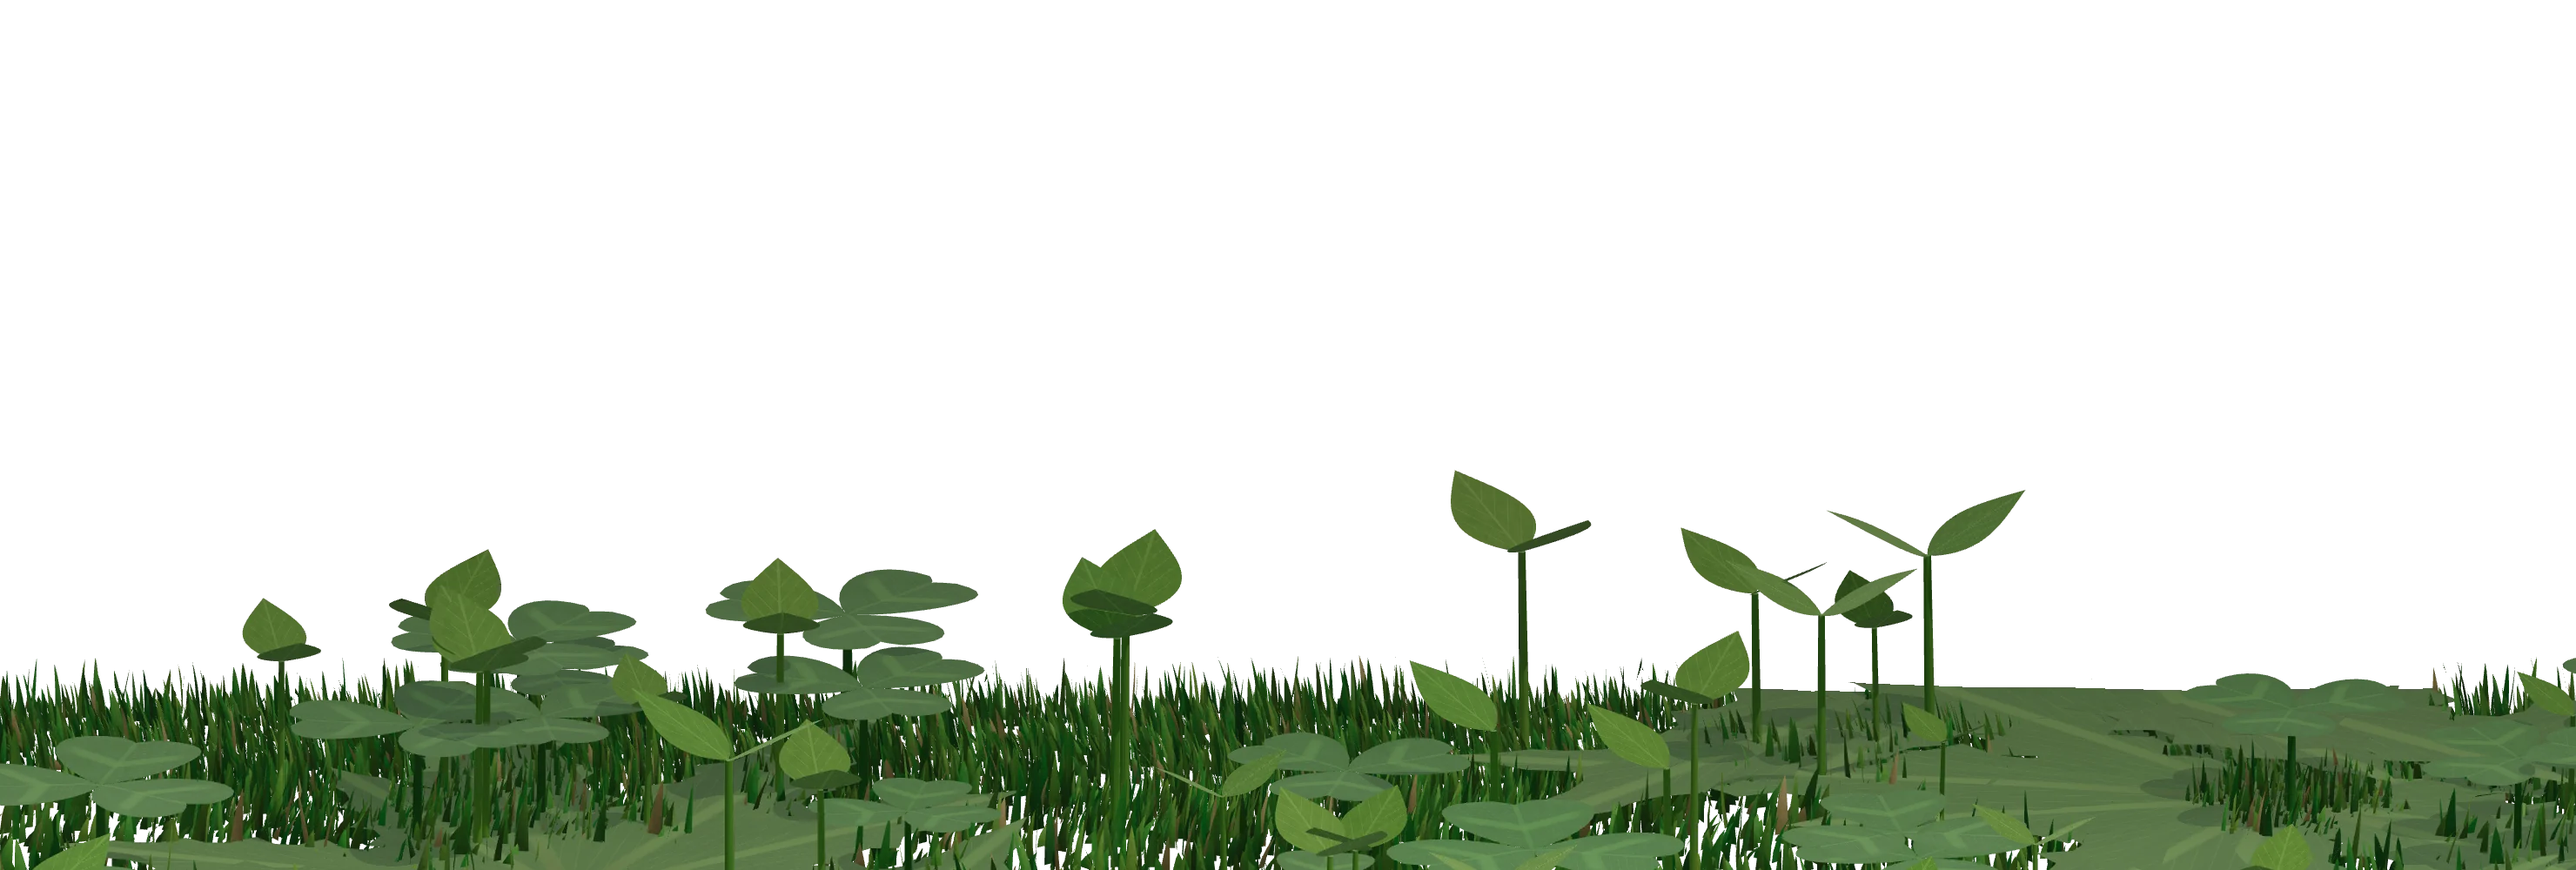
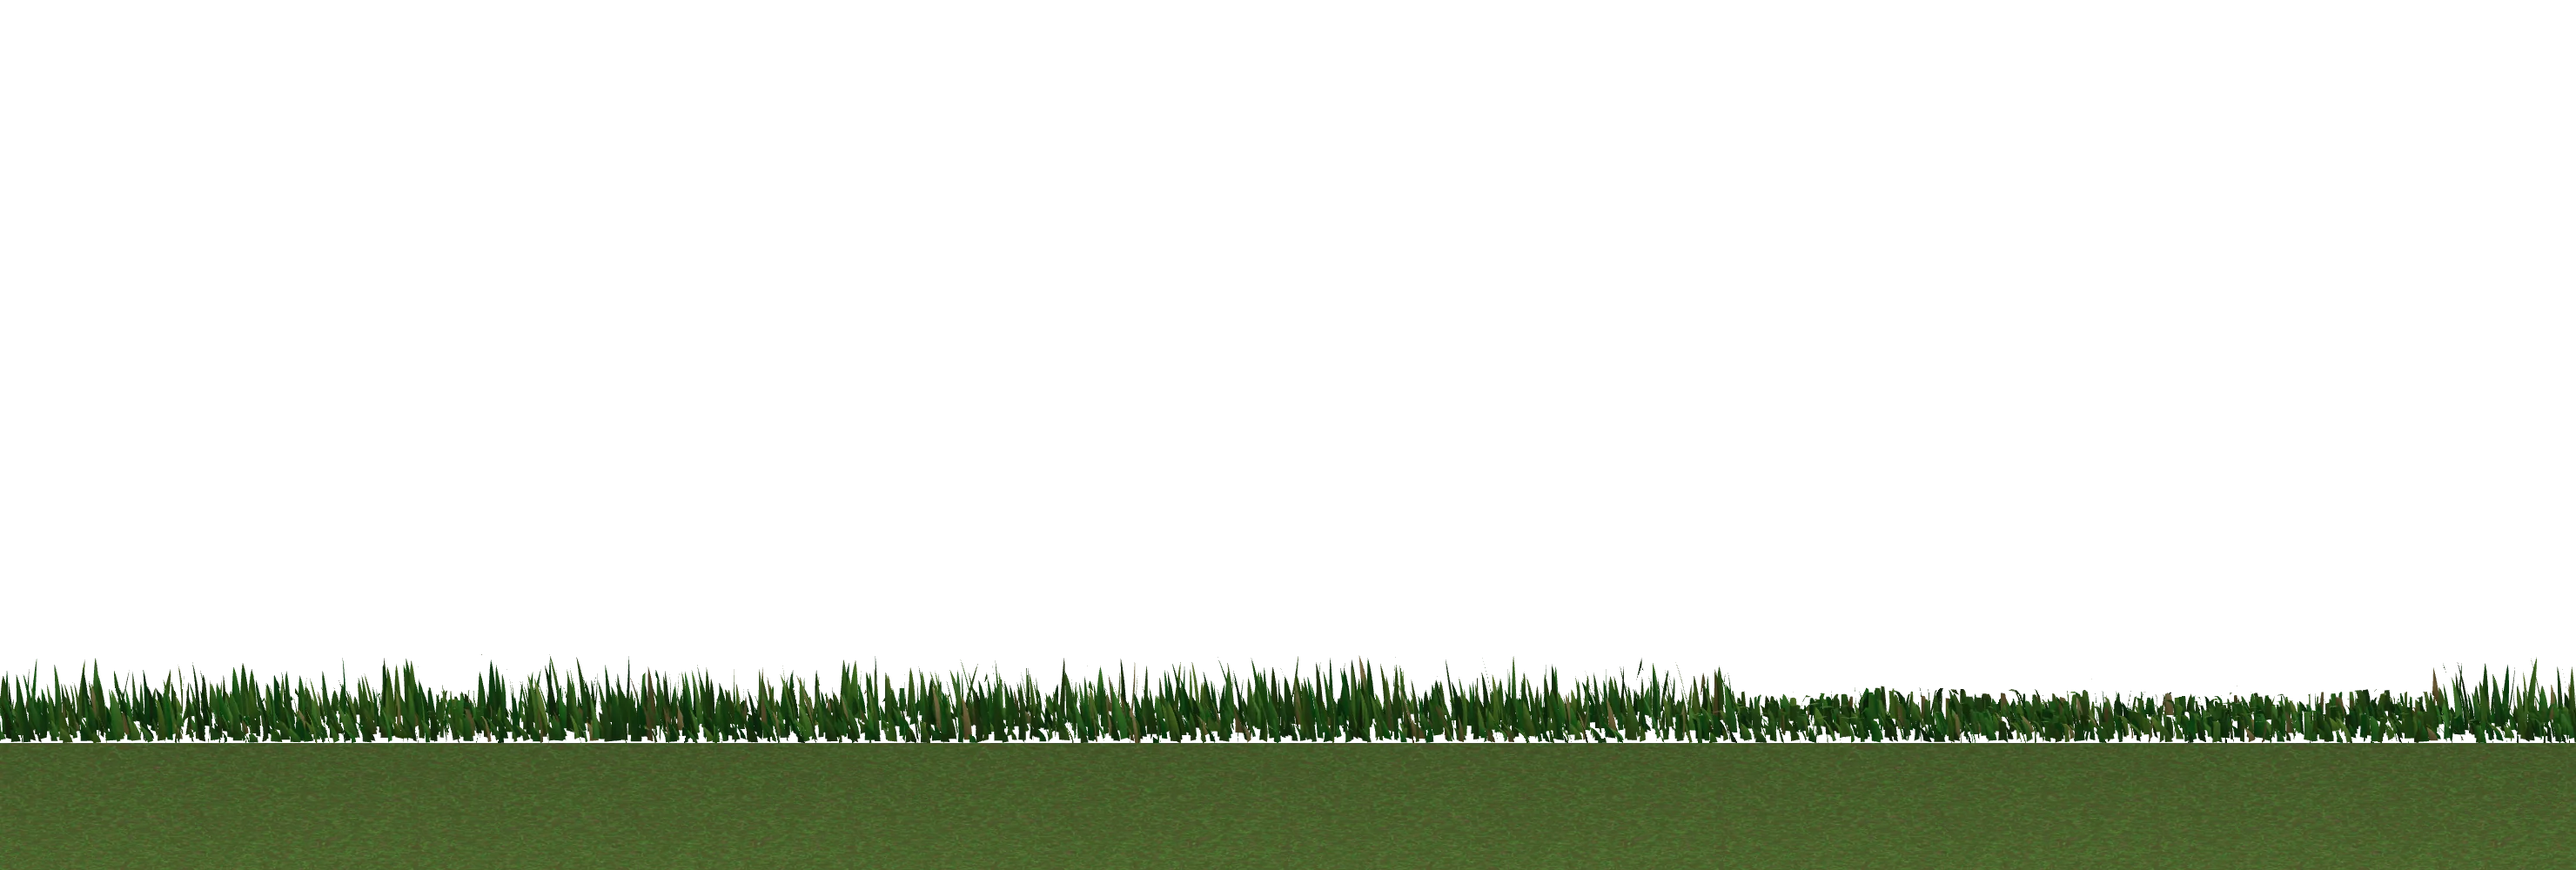
Scenery: grass all the way in front of the path; layers rise together
Claude-Session: https://claude.ai/code/session_01WiaYrimFVSW4kZ5dt2Wb6g

Changed region(s): [[0.0, 0.558, 1.0, 1.0], [0.5595, 0.527, 0.6216, 0.651], [0.0932, 0.682, 0.1243, 0.775]]

diff --git a/watch/app/src/main/kotlin/fly/watch/MainActivity.kt b/watch/app/src/main/kotlin/fly/watch/MainActivity.kt
@@ -205,13 +205,14 @@ private const val FEET_LINE = 0.756f   // claws' row in the 320 px sprite frames
 
 /**
  * Draws the on-screen part of a scenery layer. col0 is the layer's column for stage x = 0 and
- * row0 its row for the feet line; the layer moves `rate` times as fast as the stage.
+ * row0 its row for the feet line; it scrolls sideways `rate` times as fast as the stage (all
+ * layers move together vertically, so their seams stay joined when the view rises).
  */
 private fun DrawScope.drawLayer(img: ImageBitmap, sc: Scenery, v: View, col0: Float, row0: Float, rate: Float) {
     val s = v.k / sc.pxPerMm                      // screen px per layer px
     // Layer pixel under the screen's top-left corner.
     var u0 = col0 + (v.camX * rate - size.width / 2 / v.k) * sc.pxPerMm
-    var v0 = row0 - (v.standY + v.camZ * rate * v.k) / s
+    var v0 = row0 - (v.standY + v.camZ * v.k) / s
     var uw = size.width / s
     var vh = size.height / s
     var dx = 0f

diff --git a/watch/tools/scenery.html b/watch/tools/scenery.html
@@ -66,7 +66,7 @@ terrain.update(X0, Y0, 0, 1000, 0, 0);
 const NEAR = 8;
 // Keep y > a: Plane((0, 1, 0), -a); keep y < b: Plane((0, -1, 0), b).
 const above = (a) => new THREE.Plane(new THREE.Vector3(0, 1, 0), -a), below = (b) => new THREE.Plane(new THREE.Vector3(0, -1, 0), b);
-const FRONT = 3.5; // only low grass this close in front of the path is drawn over the fly
+const FRONT = 30; // grass in front of the path (it sits below the feet on screen, so it can reach far)
 const planes = {
   near: { plants: [above(Y0 + 0.25), below(Y0 + NEAR)], floor: [above(Y0 - FRONT), below(Y0 + NEAR)] },
   front: { plants: [above(Y0 - FRONT), below(Y0 - 0.3)], floor: [above(Y0 - FRONT - 30), below(Y0 - FRONT)] },

diff --git a/watch/tools/compose_preview.py b/watch/tools/compose_preview.py
@@ -29,7 +29,7 @@ def sprite(name):
 def layer(img, cam_x, cam_z, k, stand_y, col0, rate):
     s = k / P
     u0 = col0 + (cam_x * rate - SIZE / 2 / k) * P
-    v0 = meta["feetRow"] - (stand_y + cam_z * rate * k) / s
+    v0 = meta["feetRow"] - (stand_y + cam_z * k) / s
     crop = img.crop((round(u0), round(v0), round(u0 + SIZE / s), round(v0 + SIZE / s)))
     return crop.resize((SIZE, SIZE), Image.LANCZOS)
 
